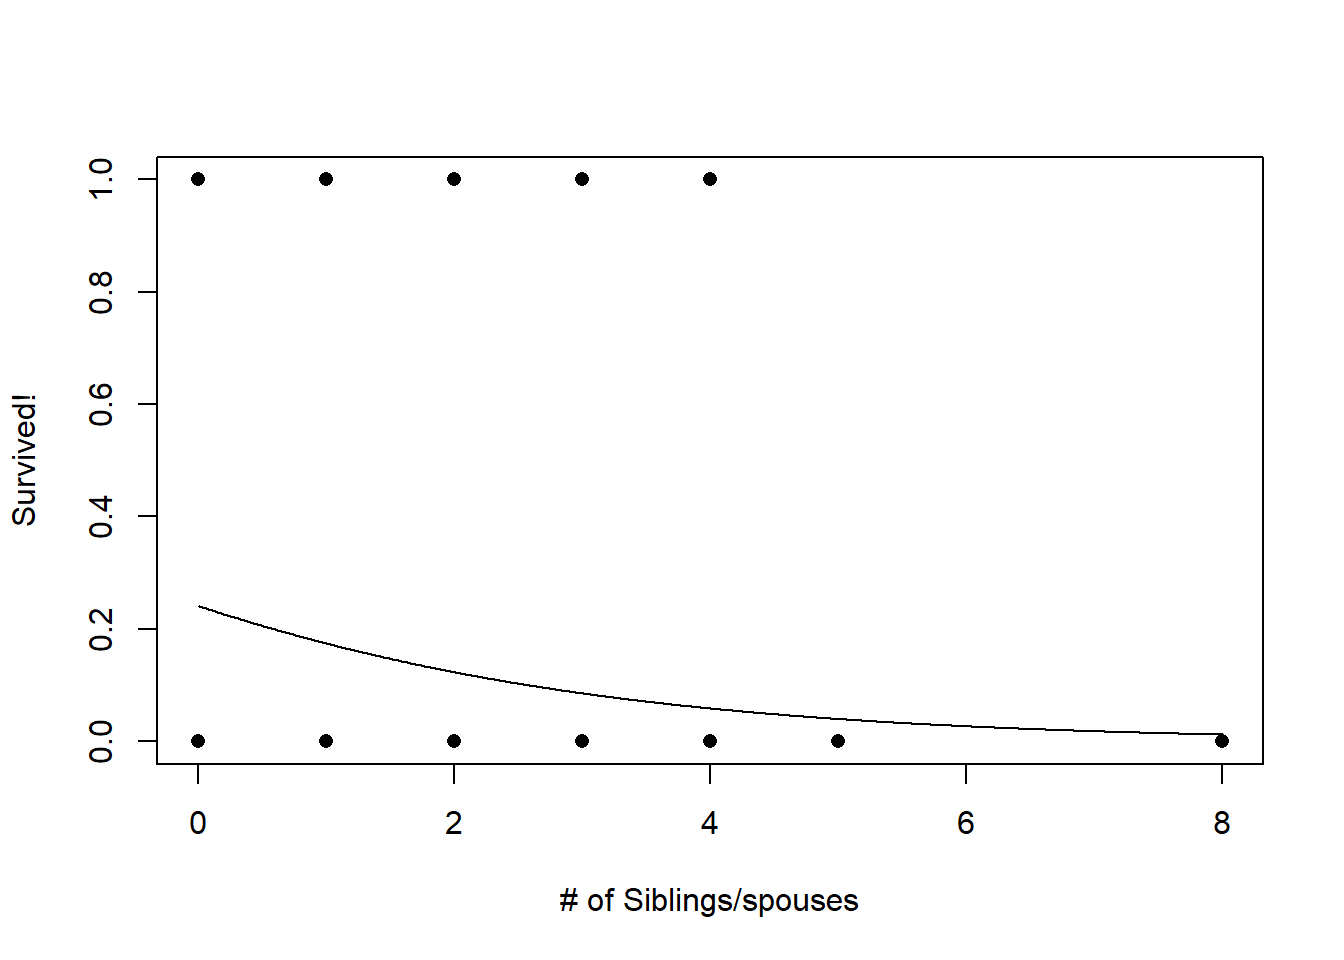
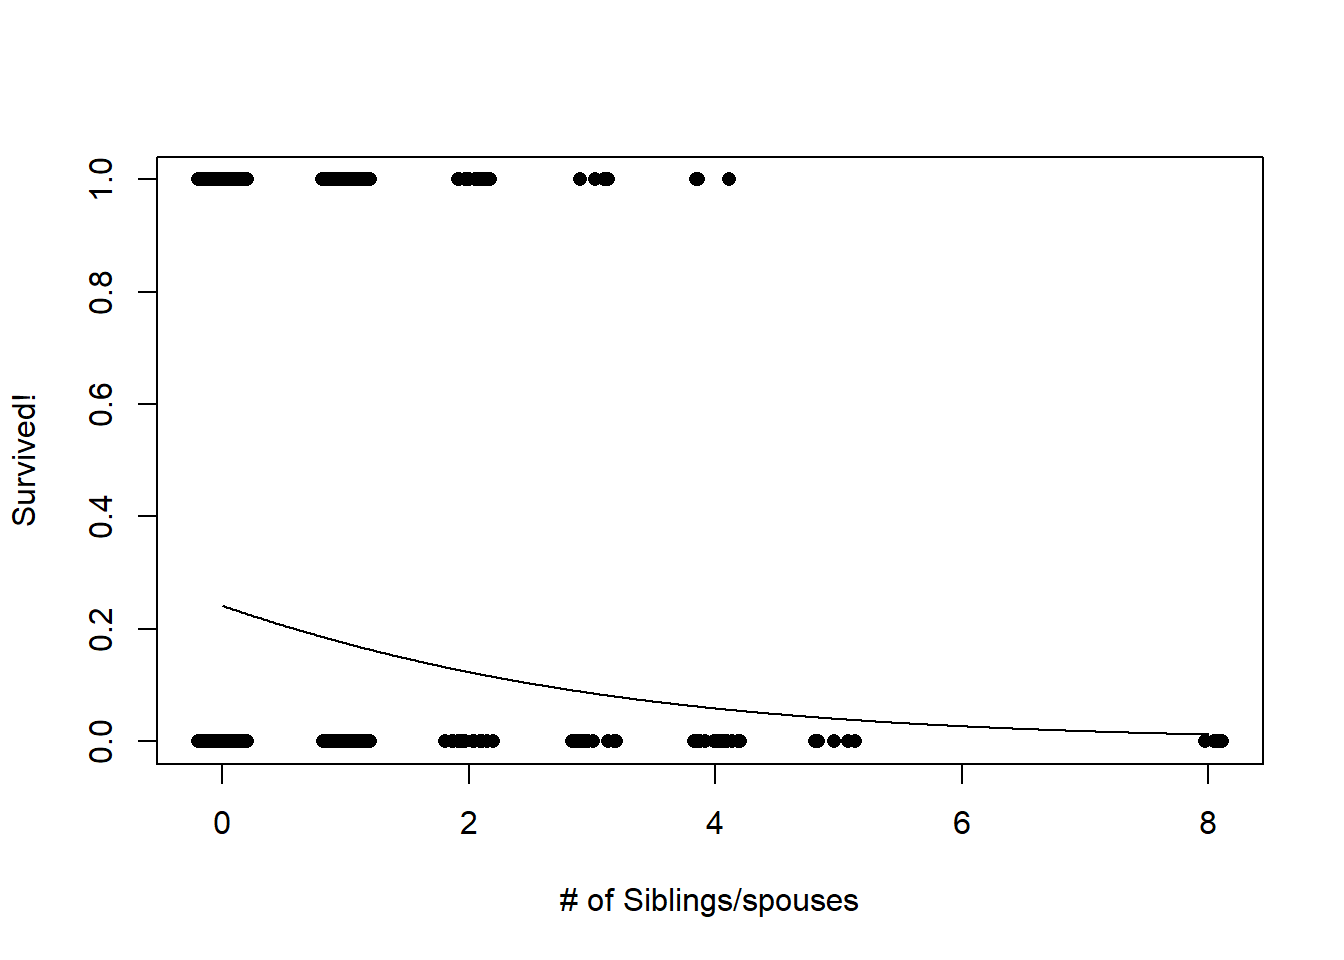
minor

diff --git a/LECTURE9.html b/LECTURE9.html
@@ -352,6 +352,9 @@ $(document).ready(function () {
     <li>
       <a href="GaussianProcessLabDemo.html">GPs in R</a>
     </li>
+    <li>
+      <a href="INLA_demo.html">INLA</a>
+    </li>
   </ul>
 </li>
 <li class="dropdown">
@@ -407,7 +410,9 @@ datasets!</a></li>
 <li><a href="#predictive-ability" id="toc-predictive-ability">Predictive
 ability</a>
 <ul>
-<li><a href="#validation" id="toc-validation">Validation</a></li>
+<li><a href="#validation-of-predictive-performance"
+id="toc-validation-of-predictive-performance">Validation of predictive
+performance</a></li>
 <li><a href="#generalityextrapolation"
 id="toc-generalityextrapolation">Generality/extrapolation</a></li>
 <li><a href="#cross-validation"
@@ -451,9 +456,9 @@ extrapolating responses for out-of-sample data that are outside the
 range of those in the training set (the model is really useful for
 prediction!)</li>
 </ol>
-<p>NOTE: if we are doing causal inference, the model might be “good” if
-it helps us estimate the causal effect of A on B, regardless if it makes
-good predictions…</p>
+<p>If we are doing <strong>causal inference</strong>, the model might be
+“good” if it helps us estimate the causal effect of A on B, regardless
+if it makes good predictions.</p>
 <div id="goodness-of-fit" class="section level2">
 <h2>Goodness-of-fit</h2>
 <p>We have already looked at a variety of methods for evaluating
@@ -559,7 +564,8 @@ points(Myx$day,Myx$titer,cex=1.5,pch=20)</code></pre>
 data vs the observed data more quantitatively. For example, we can
 compute the root mean squared error (RMSE) for the simulated datasets
 and compare that with the root mean squared error for the observed data.
-Alternatively, we could use the deviance statistic instead of RMSE.</p>
+Alternatively, we could use the deviance statistic instead of RMSE
+(there are good theoretical reasons to use deviance for GLMs).</p>
 <pre class="r"><code># Compare observed error statistic with expected range of error statistic as part of parametric bootstrap analysis
 
 expected &lt;- Ricker(MLE[&#39;a&#39;],MLE[&#39;b&#39;],Myx$day)
@@ -580,8 +586,10 @@ the point estimates are assumed to represent the true model!</p>
 <p>If we wanted to account for parameter uncertainty in the ML
 framework, we could (for example) use profile-likelihood CIs to estimate
 parameter bounds and we could plug-in bounds that incorporate parameter
-uncertainty. Or we could treat the CIs for the parameter estimates as a
-probability distribution (e.g., uniform) and simulate datasets across
+uncertainty. Or we could use error propagation (e.g., delta method) to
+compute confidence intervals on our “plug-in” predictions. Or we could
+treat the confidence intervals for the parameter estimates as
+probability distributions (e.g., uniform) and simulate datasets across
 this range of parameter uncertainty (but what would a frequentist
 statistician say about this?).</p>
 </div>
@@ -641,7 +649,7 @@ model {
   titer ~ gamma(shape, rate);   // likelihood
 }
 </code></pre>
-<p>Let’s run the model with a ricker function for allowing titer to
+<p>Let’s run the model with a Ricker function for allowing titer to
 change as a function of time since infection.</p>
 <pre class="r"><code># test your stan code:
 
@@ -799,8 +807,8 @@ goodness-of-fit?</p>
 performance, evaluated as R-squared or RMSE?</p>
 <p><strong>Q</strong>: Will an over-fitted model perform well when
 predicting to new samples (that were not used in model fitting)?</p>
-<div id="validation" class="section level3">
-<h3>Validation</h3>
+<div id="validation-of-predictive-performance" class="section level3">
+<h3>Validation of predictive performance</h3>
 <p>Let’s imagine we collect some new Myxomatosis titer data (for grade 1
 virus), and it looks like this:</p>
 <pre class="r"><code># Collect new data that were not used in model fitting
@@ -1176,7 +1184,7 @@ lines(seq(Age_range[1],Age_range[2]),probSurv)</code></pre>
 <p>Now, let’s look at number of siblings/spouses:</p>
 <pre class="r"><code>### 
 
-plot(titanic$Survived~titanic$SibSp,pch=16,xlab=&quot;# of Siblings/spouses&quot;,ylab=&quot;Survived!&quot;)
+plot(titanic$Survived~jitter(titanic$SibSp),pch=16,xlab=&quot;# of Siblings/spouses&quot;,ylab=&quot;Survived!&quot;)
 
 predict_df &lt;- data.frame(
   Sex = &quot;male&quot;,
@@ -1321,7 +1329,6 @@ cat(&quot;The McFadden R2 for the model under cross-validation is: &quot;, devia
 <pre><code>## The McFadden R2 for the model under cross-validation is:  0.2564415</code></pre>
 <pre class="r"><code>cat(&quot;The McFadden R2 for the model using all data for training is: &quot;, deviance_explained_real, &quot;\n&quot;)</code></pre>
 <pre><code>## The McFadden R2 for the model using all data for training is:  0.2760832</code></pre>
-<p><a href="LECTURE10.html">–go to next lecture–</a></p>
 </div>
 </div>
 
